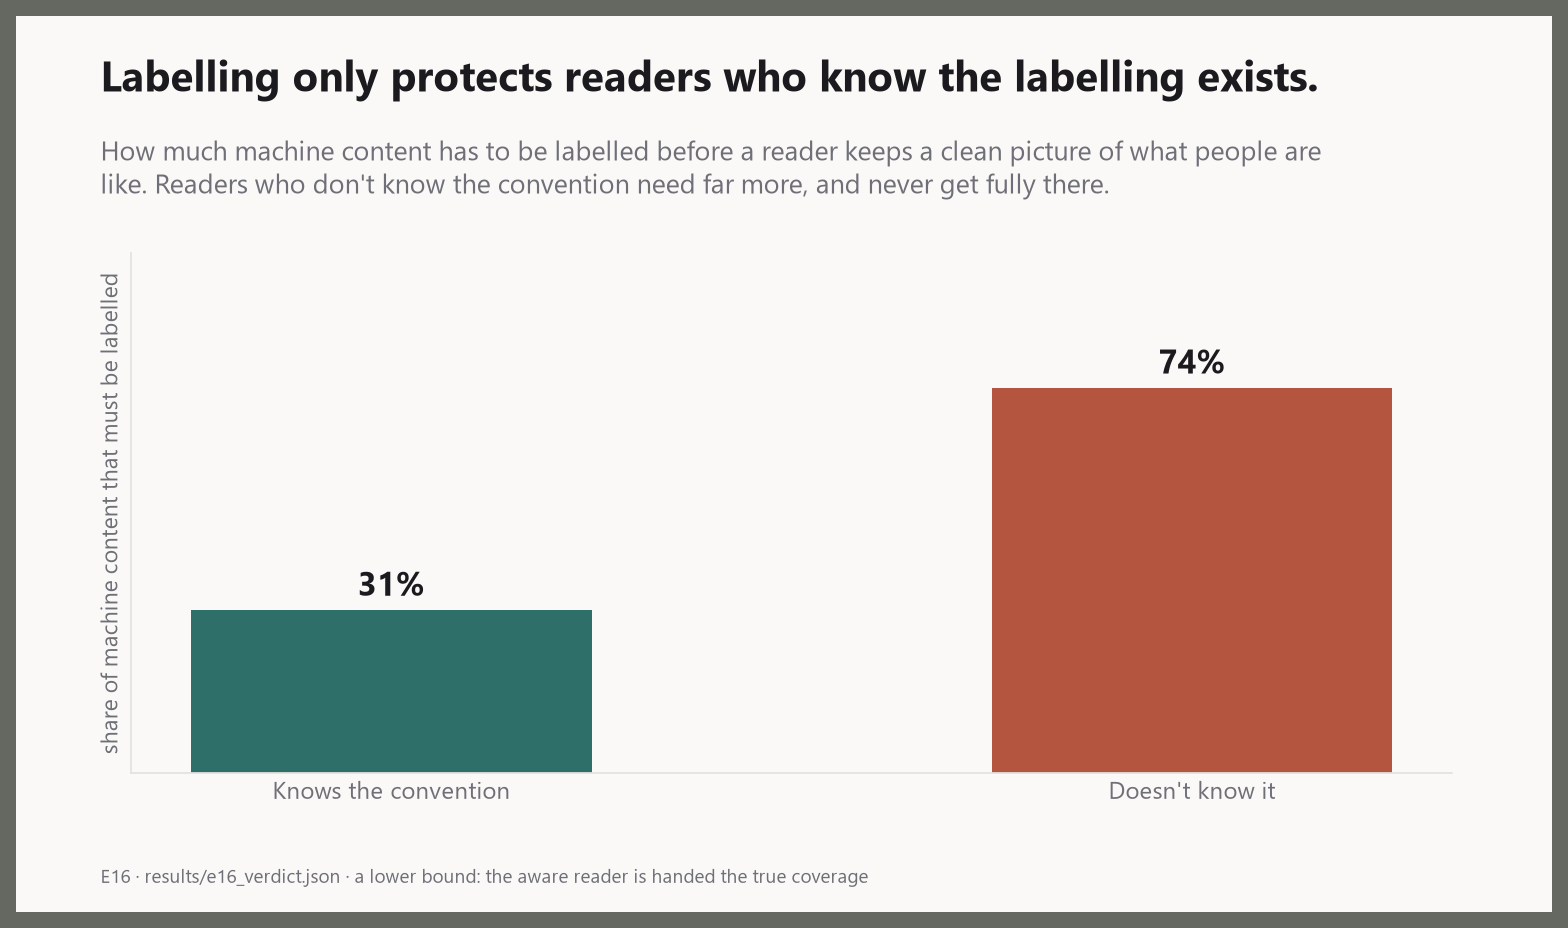
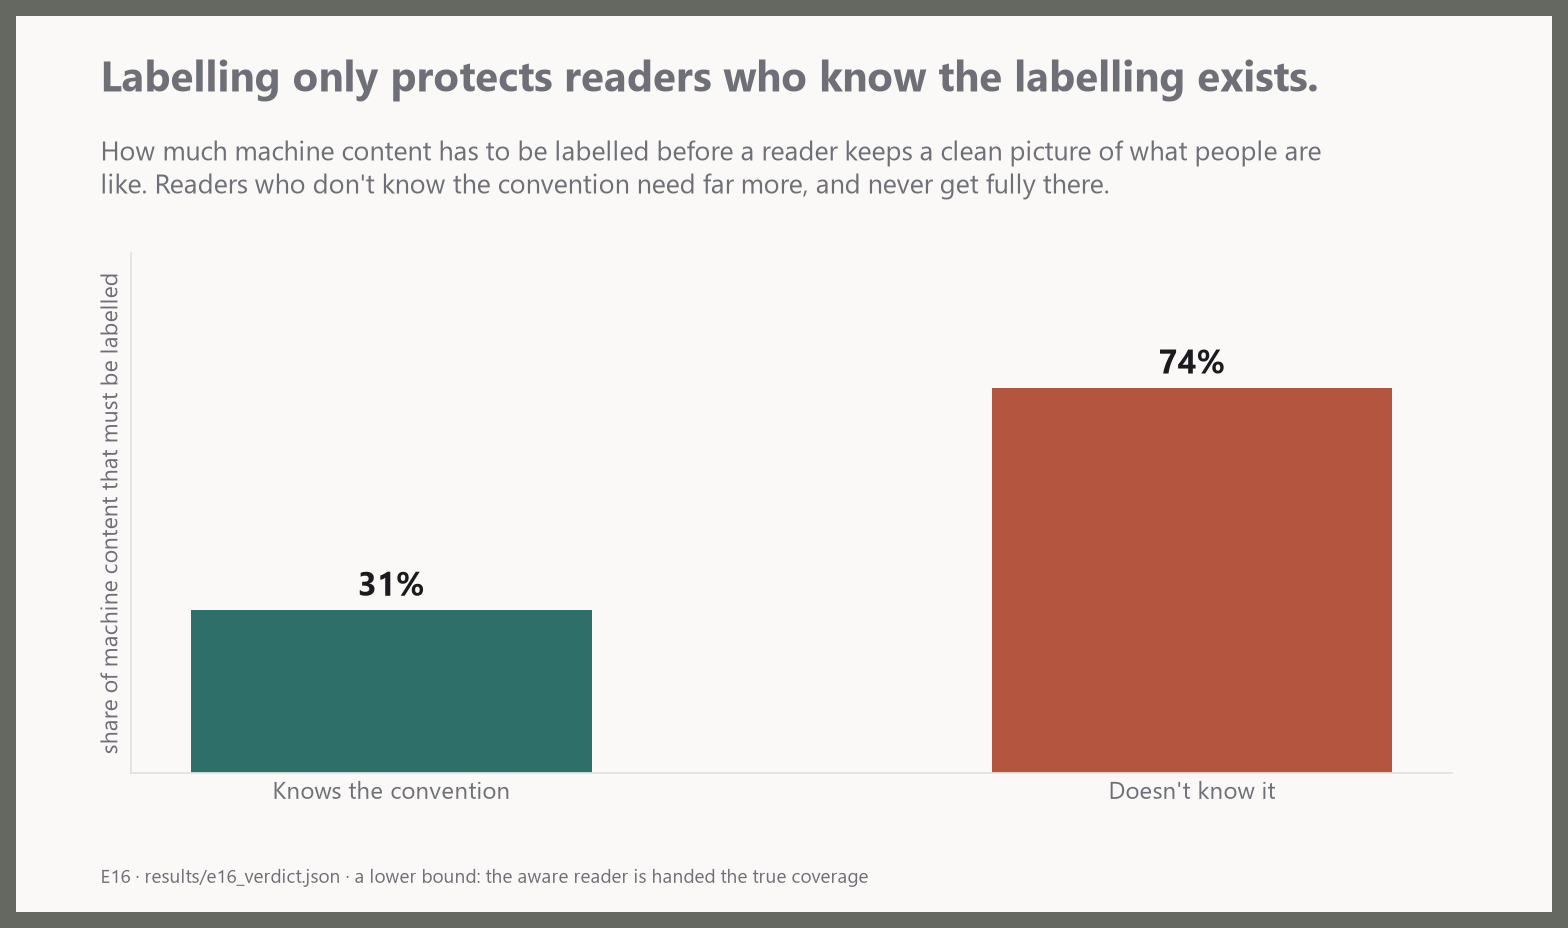
The author writes the titles now, so the scale runs on the headline too
plate() takes `authored`. A title a person wrote is Polished tier and runs in
black; every other title on the set was written by a machine from the author's
results, which is Ghost tier, and now runs in grey. Twenty-one grey, five black.
A reader who never learns what that means loses nothing; one who does gets the
project's instrument pointed at the project's own slides.

Five titles replaced with the author's own words, grammar cleaned, and the grey
subtitle under each rewritten to bridge from the new sentence to what the chart
actually shows.

Mathtext pointed at the house font so the italicised "my" in the severity title
arrives in Segoe UI rather than DejaVu.

And an audit bug found by the change. Legend text was excluded from collision
checks ENTIRELY, to stop legends reporting themselves. That let a legend sit
straight on top of an annotation with no complaint, which happened on plate 25
the moment its title grew. Now only legend-against-legend is skipped. The fix
for one failure had been hiding another.

"WRONG" in caps is gone from plate 25's subtitle, along with the shouting.

243 tests passing.

Changed region(s): [[0.0625, 0.0625, 0.8438, 0.125]]

diff --git a/scripts/make_walkthrough_plates.py b/scripts/make_walkthrough_plates.py
@@ -50,10 +50,13 @@ def plate_01_false_label():
     vals = [float(p[1]["error_reduction"]) for p in picks]
 
     fig, ax = plate(
-        "Lying about who made something doesn't waste your time.\nIt leaves you knowing less than before you started.",
-        "How much closer to the truth about the maker a reader ends up. Above the line, reading "
-        "taught you something. Below it, reading cost you ground you already had.",
-        "E2 · results/repair/r5_uptake.json · reduction in the surprisal of the true intent, in nats")
+        "Learning from falsely labelled AI work leaves you knowing less\nabout its maker than before you read it.",
+        "One reading, and how much closer to the truth about that maker it left the reader. Above "
+        "the line, reading taught you something. Below it, reading cost you ground you already "
+        "had. Told the truth, a reader stays put; told a person made it, the reader builds a "
+        "confident theory about somebody who was never there.",
+        "E2 · results/repair/r5_uptake.json · reduction in the surprisal of the true intent, in nats",
+        authored=True)
     bars = ax.bar([p[0] for p in picks], vals, color=[p[2] for p in picks], width=0.55)
     bar_labels(ax, bars, vals, fmt="{:+.2f}", fontsize=15, color=INK)
     zero_line(ax)
@@ -77,12 +80,13 @@ def plate_02_interior_peak():
              for r in t1["interior_peak"]["rows"]} if "interior_peak" in t1 else {}
 
     fig, ax = plate(
-        "Total nonsense is safe. Total clarity is safe.\nThe danger zone is content that is almost readable.",
-        "Partial structure is worse than none. Enough familiar shape to make an explanation seem "
-        "available, not enough to make it right, so the reader builds a confident story about "
-        "somebody who was never there.",
+        "You safely ignore total nonsense, and you easily parse work inside your expertise. "
+        "Inventing a fake creator happens most when things are just a little human.",
+        "Invention is how often the reader produces a confident, mutually contradictory reading. "
+        "It does not rise with how alien the work is. It peaks where the reader has just enough "
+        "familiar shape to make an explanation seem available and not enough to make it right.",
         "E20 · results/e20_omega_sweep.csv · confident-and-contradictory readings, by how much of "
-        "the content the reader has vocabulary for")
+        "the content the reader has vocabulary for", authored=True)
     x = df.omega.to_numpy()
     y = df.fabrication_index.to_numpy()
     ax.plot(x, y, color=NEUTRAL, lw=2.2, zorder=2)
@@ -166,15 +170,16 @@ def plate_03_the_wall():
     # The chart annotation goes back to the series colour, because it is a label on a bar and
     # labels follow their series.
     fig, ax = plate(
-        "Not understanding a painting is safe. You know you missed it.\nAI work is worse: it lets you believe you didn't.",
+        "You notice when you have failed to get anything from a painting. You do not "
+        "notice when AI work leaves you confidently wrong.",
         "",
         "E37 · results/v6/e37_wall.json · the AI condition is built as four maker-states collapsing "
-        "onto two surfaces, on entirely familiar material")
+        "onto two surfaces, on entirely familiar material", authored=True)
 
     sub_y, step = 0.793, 0.050
     grey_lines = [
-        "One measure: how finished the viewer felt when it walked away. Art you have no training",
-        "for stops you at the door, and stopping is the protection. The AI image lets you walk",
+        "One measure: how finished the viewer felt on walking away. Art you have no training for",
+        "stops you at the door, and being stopped is the protection. The AI image lets you leave",
     ]
     for i, ln in enumerate(grey_lines):
         fig.text(0.055, sub_y - step * i, ln, fontsize=12, color=MUTED, va="top")
@@ -198,7 +203,7 @@ def plate_03_the_wall():
                 fontsize=15, fontweight="bold", color=INK)
     ax.set_xticks(xs)
     ax.set_xticklabels([o[1] for o in order], fontsize=11)
-    ax.set_ylim(0, 158)
+    ax.set_ylim(0, 172)
     clean_axis(ax, "how finished the viewer felt")
     ax.set_yticks([])
 
@@ -214,7 +219,7 @@ def plate_03_the_wall():
     # 76, which is the kind of thing that only shows up once the whole plate is rendered.
     keep = ax.text(2, settled[2] + 27, "You keep it.", color=MACHINE, ha="center", va="bottom",
                    fontsize=11.5, fontweight="bold", zorder=5)
-    ax.text(2, settled[2] + 35, "you walk away certain,\nholding an answer you invented.",
+    ax.text(2, settled[2] + 40, "you walk away certain,\nholding an answer you invented.",
             color=MACHINE, ha="center", va="bottom", fontsize=11.5, fontweight="bold",
             linespacing=1.35, zorder=5)
     fig.canvas.draw()
@@ -869,12 +874,14 @@ def plate_22_how_much_is_the_theory():
     mine = [1.0 - v for v in vals]
 
     fig, ax = plate(
-        "Everything on this chart is true.\nI checked how much of it is actually evidence for MY theory.",
-        "The test: rebuild the model hundreds of times with every setting my theory specifies "
-        "replaced by a random one. Anything that still turns up is real, but it is not proof of "
-        "this theory over any other built the same way. Almost no published model is ever put "
-        "through this, and most would not come out of it as well.",
-        "S-1 - results/v8/s1_severity.json - 600 randomly parameterised rebuilds per finding")
+        "Modelled, none of my theory's main predictions were refuted. Then I went several "
+        "steps further and checked how much of it is evidence for $\\it{my}$ theory specifically.",
+        "The further step: rebuild the model hundreds of times with every setting the theory "
+        "specifies replaced by a random one. Whatever still turns up is true, and it is not proof "
+        "of this account over any other built the same way. Almost no published model is put "
+        "through this at all.",
+        "S-1 - results/v8/s1_severity.json - 600 randomly parameterised rebuilds per finding",
+        authored=True)
 
     pos = ax.get_position()
     ax.set_position([0.30, pos.y0, 0.60, pos.height])
@@ -893,7 +900,7 @@ def plate_22_how_much_is_the_theory():
 
     ax.set_yticks(y, labels, fontsize=12.5)
     ax.set_xlim(0, 1.20)
-    ax.set_ylim(-2.20, len(labels) + 0.16)
+    ax.set_ylim(-2.55, len(labels) + 0.16)
     clean_axis(ax, "", "")
     ax.set_xticks([])
     for s in ax.spines.values():
@@ -912,7 +919,7 @@ def plate_22_how_much_is_the_theory():
     # is worse than no caveat: it reads as a claim with no limits on it.
     annotate(ax, 0.0, -0.78, "The overall picture holds together.",
              color=INK, fontsize=12.5, weight="bold", va="center", ha="left")
-    annotate(ax, 0.0, -1.52,
+    annotate(ax, 0.0, -1.72,
              "Some of its parts turn out to be unprovable either way, which is not the same as "
              "wrong.\nMost people never find out which of theirs are, and report them as though "
              "they had.",
@@ -1046,13 +1053,13 @@ def plate_25_a_defence_that_works():
     clean = [cell("clean", r, "human_model_corrupted") for r, _ in readers]
 
     fig, ax = plate(
-        "Filtering AI slop by how good it looks is worse than not filtering at all.",
-        "Each bar is how WRONG the learner ends up about real people after reading a stream. "
-        "Taller is worse. The red bar is a stream salted with content built to be absorbed by "
-        "machines; the teal bar is the same learner on a clean stream, which is the cost of the "
-        "filter itself.",
+        "Right now, you identify human work most easily by trying to connect with the maker's "
+        "intent, not by looking for surface-level quality.",
+        "A reader learning from a stream salted with text built to be absorbed by machines. "
+        "Filtering on how good the writing looks does nothing, because looking good is what the "
+        "writer optimised for. Taller bars are worse: how wrong it ends up about real people.",
         "E55 - results/v10/summary.json - reproduces in 83% of randomly parameterised models, so "
-        "most of this is architecture; read the direction")
+        "most of this is architecture; read the direction", authored=True)
 
     x = np.arange(len(readers))
     w = 0.36
@@ -1064,7 +1071,7 @@ def plate_25_a_defence_that_works():
                     ha="center", va="bottom", fontsize=13, fontweight="bold", color=INK)
 
     ax.set_xticks(x, [lbl for _, lbl in readers], fontsize=11.5, linespacing=1.25)
-    ax.set_ylim(0, max(poisoned) * 1.46)
+    ax.set_ylim(0, max(poisoned) * 1.78)
     clean_axis(ax, "how wrong it ends up about people", "")
     ax.set_yticks([])
     # The legend goes ABOVE the axes, horizontally. Inside the frame it collided with the teal

diff --git a/ghostscale/plates.py b/ghostscale/plates.py
@@ -70,10 +70,16 @@ def _apply_rc() -> None:
         "figure.dpi": 160,
         "savefig.dpi": 160,
         "font.size": 11,
+        # Mathtext is only ever used for a single italicised word inside a title. Point it at the
+        # house font so the italic does not arrive in a different typeface than its own sentence.
+        "mathtext.fontset": "custom",
+        "mathtext.rm": _FONT,
+        "mathtext.it": f"{_FONT}:italic",
+        "mathtext.bf": f"{_FONT}:bold",
     })
 
 
-def plate(title: str, subtitle: str, footer: str, size=(9.6, 5.6)):
+def plate(title: str, subtitle: str, footer: str, size=(9.6, 5.6), authored: bool = False):
     """A figure with the finding in the title and the provenance in the footer.
 
     The proportions are deliberate: 16:9-ish, because these are meant to survive being posted
@@ -91,8 +97,18 @@ def plate(title: str, subtitle: str, footer: str, size=(9.6, 5.6)):
 
     fig = plt.figure(figsize=size)
     top = 0.955
+
+    # THE SCALE, APPLIED TO THE HEADLINE ITSELF.
+    #
+    # ``authored`` says a person wrote this title. Those are Polished tier: the words are the
+    # author's, the grammar is not, and they run in black. Every other title on the set was
+    # written by a machine from the author's results, which is Ghost tier, and those run in grey.
+    #
+    # A reader who never learns what the colours mean loses nothing. A reader who does gets the
+    # project's own instrument applied to the project's own slides, which is the only honest place
+    # to start using it.
     fig.text(0.055, top, "\n".join(title_lines), fontsize=19, fontweight="bold",
-             color=INK, va="top", linespacing=1.22)
+             color=INK if authored else MUTED, va="top", linespacing=1.22)
 
     sub_y = top - 0.072 * len(title_lines) - 0.018
     fig.text(0.055, sub_y, "\n".join(sub_lines), fontsize=12, color=MUTED,
@@ -220,13 +236,18 @@ def audit(fig, name: str = "") -> list:
         label = " ".join(str(t.get_text()).split())[:44]
         if bb.x0 < -1.0 or bb.y0 < -1.0 or bb.x1 > W + 1.0 or bb.y1 > H + 1.0:
             problems.append(f"CLIPPED    {name}: {label!r}")
-        if id(t) not in legend_texts:
-            boxes.append((bb, label))
+        boxes.append((bb, label, id(t) in legend_texts))
 
     for i in range(len(boxes)):
         for j in range(i + 1, len(boxes)):
-            a, la = boxes[i]
-            b, lb = boxes[j]
+            a, la, a_leg = boxes[i]
+            b, lb, b_leg = boxes[j]
+            # Skip only legend-against-legend. The first version skipped anything involving a
+            # legend at all, which let a legend sit straight on top of an annotation without a
+            # word of complaint -- the exact failure the audit exists to catch, hidden inside the
+            # fix for a different one.
+            if a_leg and b_leg:
+                continue
             ov_w = min(a.x1, b.x1) - max(a.x0, b.x0)
             ov_h = min(a.y1, b.y1) - max(a.y0, b.y0)
             if ov_w <= 2 or ov_h <= 2:
